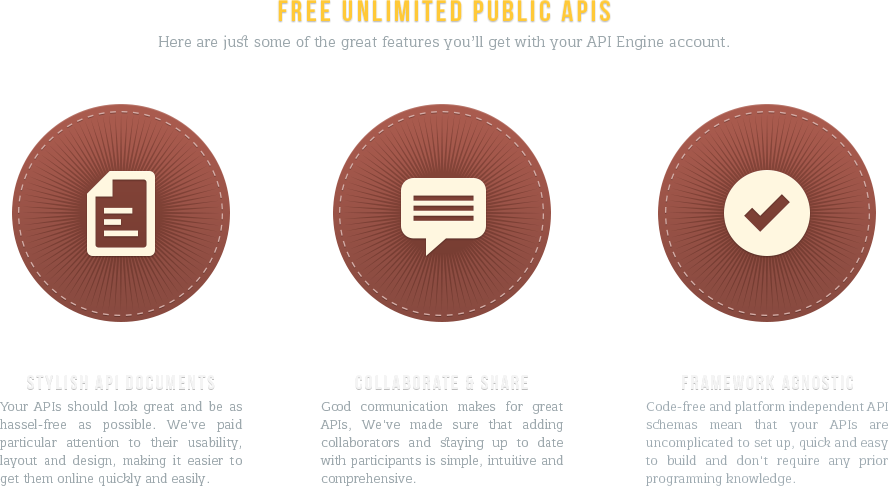
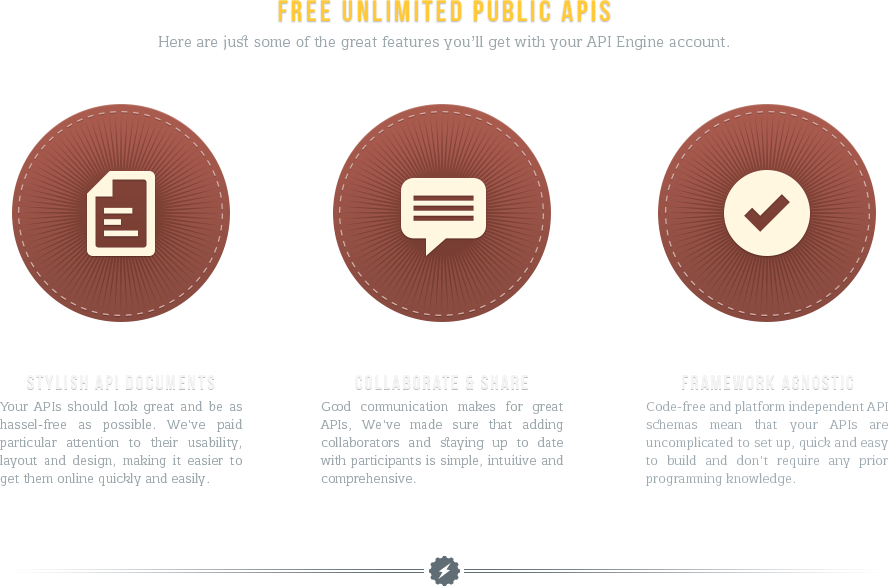
new features image

Changed region(s): [[0.0, 0.1543, 1.0, 1.0], [0.1824, 0.0, 0.8209, 0.0926]]

diff --git a/index.html b/index.html
@@ -268,7 +268,7 @@
 		}
 				.features {
 			width: 888px;
-			height: 468px;
+			height: 586px;
 			background: url('img/features.png');
 			margin: auto;
 			margin-top: 50px;
